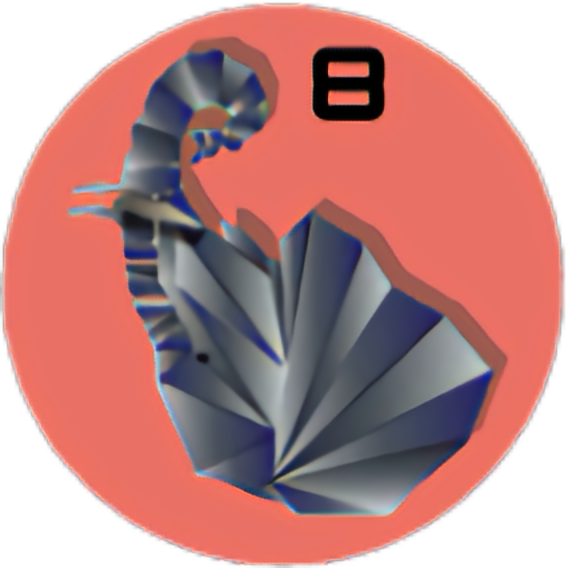
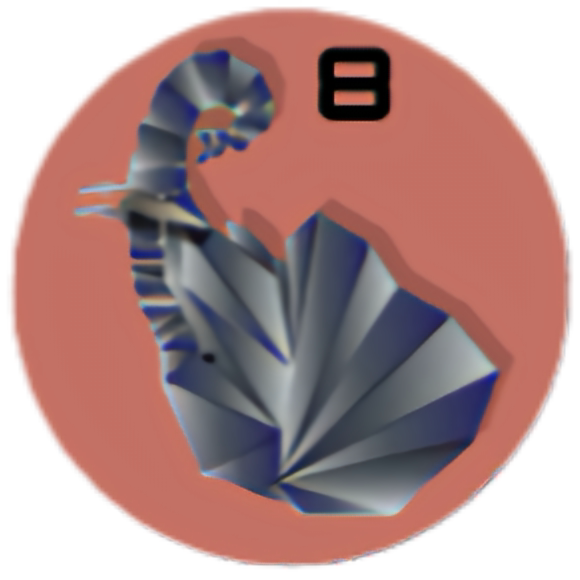
Fix reversed pictures in CapturePiecesPanel

diff --git a/src/view/CapturedPiecesPanel.java b/src/view/CapturedPiecesPanel.java
@@ -91,7 +91,7 @@ public class CapturedPiecesPanel extends JPanel {
         }
         for (final Piece capturedPiece : redCapturedPieces) {
             try {
-                final BufferedImage image = ImageIO.read(new File(defaultImagesPath +
+                final BufferedImage image = ImageIO.read(new File(defaultImagesPath + "unreversed" +
                         capturedPiece.getPieceColor().toString().toLowerCase() +
                         capturedPiece.toString().toLowerCase() + ".png"));
                 ImageIcon icon = new ImageIcon(image);

diff --git a/src/view/GameFrame.java b/src/view/GameFrame.java
@@ -162,7 +162,7 @@ public class GameFrame {
         BoardPanel() {
             super(new GridLayout(9, 7));
             this.boardTerrains = new ArrayList<>();
-            this.boardImage = new ImageIcon(defaultImagesPath + "chessboard.png").getImage();
+            this.boardImage = new ImageIcon(defaultImagesPath + "chessboard1.png").getImage();
             for (int i = 0; i < BoardUtils.NUM_TERRAINS; i++) {
                 final TerrainPanel terrainPanel = new TerrainPanel(this, i);
                 this.boardTerrains.add(terrainPanel);
